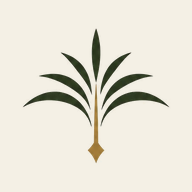
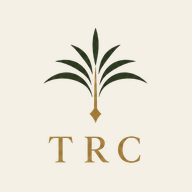
Application : icône TRC (palmier + TRC) et page « ثبّت التطبيق »
- Icônes refaites depuis le logo : palmier + TRC sur fond crème (iPhone, Android,
  forme ronde « maskable »)
- Page /installer : bouton d'installation en un clic sur Android/Chrome,
  étapes illustrées pour iPhone (Safari), bouton dans le pied de page
- Réglages iPhone (nom « TRC » sous l'icône, plein écran)
- 4 tests ajoutés (88 au total)

Changed region(s): [[0.125, 0.1562, 0.875, 0.875], [0.5938, 0.6875, 0.75, 0.875], [0.25, 0.6875, 0.375, 0.875]]

diff --git a/frontend/src/pages/public/Install.jsx b/frontend/src/pages/public/Install.jsx
@@ -1,0 +1,65 @@
+import { useEffect, useState } from 'react'
+import { useTranslation } from 'react-i18next'
+import { AngledLine } from '../../components/ui'
+import { canPromptInstall, isInstalled, onInstallChange, platform, promptInstall } from '../../lib/install'
+
+function Steps({ title, steps }) {
+  return (
+    <div className="panel">
+      <h2 style={{ fontSize: '1.2rem' }}>{title}</h2>
+      <ol className="install-steps">
+        {steps.map((step) => (
+          <li key={step}>{step}</li>
+        ))}
+      </ol>
+    </div>
+  )
+}
+
+export default function Install() {
+  const { t } = useTranslation()
+  const [, refresh] = useState(0)
+  const [result, setResult] = useState(null)
+  useEffect(() => onInstallChange(() => refresh((n) => n + 1)), [])
+  const device = platform()
+  const ios = t('install.ios', { returnObjects: true })
+  const android = t('install.android', { returnObjects: true })
+
+  const install = async () => setResult((await promptInstall()) ? 'accepted' : 'dismissed')
+
+  return (
+    <section className="container section">
+      <div className="auth-page" style={{ maxWidth: 560 }}>
+        <div style={{ textAlign: 'center' }}>
+          <img src="/icon-192.png" alt="" width="96" height="96" className="install-icon" />
+          <h1 style={{ fontSize: '1.6rem', marginTop: 12 }}>{t('install.title')}</h1>
+          <p className="muted">{t('install.intro')}</p>
+        </div>
+        <AngledLine />
+        {isInstalled() ? (
+          <div className="alert success">{t('install.already')}</div>
+        ) : (
+          <div className="stack">
+            {canPromptInstall() && (
+              <button type="button" className="btn btn-primary" onClick={install}>
+                {t('install.button')}
+              </button>
+            )}
+            {result === 'accepted' && <div className="alert success">{t('install.done')}</div>}
+            {device === 'ios' ? (
+              <Steps title={t('install.iosTitle')} steps={ios} />
+            ) : device === 'android' ? (
+              <Steps title={t('install.androidTitle')} steps={android} />
+            ) : (
+              <>
+                <Steps title={t('install.androidTitle')} steps={android} />
+                <Steps title={t('install.iosTitle')} steps={ios} />
+              </>
+            )}
+            <p className="small muted">{t('install.free')}</p>
+          </div>
+        )}
+      </div>
+    </section>
+  )
+}

diff --git a/frontend/src/test/install.test.jsx b/frontend/src/test/install.test.jsx
@@ -1,0 +1,47 @@
+import { act, screen } from '@testing-library/react'
+import userEvent from '@testing-library/user-event'
+import { describe, expect, it, vi } from 'vitest'
+import { canPromptInstall, isInstalled, platform } from '../lib/install'
+import Install from '../pages/public/Install'
+import { mockApi, renderAt } from './utils'
+
+describe('installer l’application (sans store)', () => {
+  it('reconnaît iPhone, Android et ordinateur', () => {
+    expect(platform('Mozilla/5.0 (iPhone; CPU iPhone OS 17_0 like Mac OS X)')).toBe('ios')
+    expect(platform('Mozilla/5.0 (Linux; Android 14; SM-A145F)')).toBe('android')
+    expect(platform('Mozilla/5.0 (X11; Linux x86_64)')).toBe('other')
+    expect(isInstalled()).toBe(false)
+  })
+
+  it('Android : le bouton ouvre la fenêtre d’installation du navigateur', async () => {
+    mockApi({})
+    const prompt = vi.fn()
+    const event = new Event('beforeinstallprompt')
+    event.prompt = prompt
+    event.userChoice = Promise.resolve({ outcome: 'accepted' })
+    const user = userEvent.setup()
+    renderAt(<Install />)
+    expect(screen.queryByRole('button', { name: 'ثبّت التطبيق الآن' })).toBeNull()
+    act(() => window.dispatchEvent(event))
+    expect(canPromptInstall()).toBe(true)
+    await user.click(screen.getByRole('button', { name: 'ثبّت التطبيق الآن' }))
+    expect(prompt).toHaveBeenCalled()
+    expect(await screen.findByText(/تم التثبيت/)).toBeInTheDocument()
+    expect(canPromptInstall()).toBe(false)
+  })
+
+  it('explique les étapes iPhone et Android', () => {
+    mockApi({})
+    renderAt(<Install />)
+    expect(screen.getByText('على آيفون (Safari)')).toBeInTheDocument()
+    expect(screen.getByText('على أندرويد (Chrome)')).toBeInTheDocument()
+    expect(screen.getAllByText(/الشاشة الرئيسية/).length).toBeGreaterThan(2)
+  })
+
+  it('déjà installée : message simple', () => {
+    mockApi({})
+    vi.stubGlobal('matchMedia', () => ({ matches: true }))
+    renderAt(<Install />)
+    expect(screen.getByText(/التطبيق مثبّت/)).toBeInTheDocument()
+  })
+})

diff --git a/frontend/src/lib/install.js b/frontend/src/lib/install.js
@@ -1,0 +1,58 @@
+// Installation de l'application sur l'écran d'accueil, sans App Store ni Play Store (PWA).
+// - Android / Chrome / Edge : le navigateur propose l'installation (événement « beforeinstallprompt ») :
+//   on le garde pour l'ouvrir quand l'utilisateur appuie sur notre bouton.
+// - iPhone / iPad (Safari) : pas d'installation automatique : on explique « Partager → Sur l'écran d'accueil ».
+
+let deferredPrompt = null
+const listeners = new Set()
+
+function notify() {
+  listeners.forEach((listener) => listener())
+}
+
+if (typeof window !== 'undefined') {
+  window.addEventListener('beforeinstallprompt', (event) => {
+    event.preventDefault()
+    deferredPrompt = event
+    notify()
+  })
+  window.addEventListener('appinstalled', () => {
+    deferredPrompt = null
+    notify()
+  })
+}
+
+export function onInstallChange(listener) {
+  listeners.add(listener)
+  return () => listeners.delete(listener)
+}
+
+export function canPromptInstall() {
+  return deferredPrompt !== null
+}
+
+/** Ouvre la fenêtre d'installation du navigateur ; renvoie true si l'utilisateur accepte. */
+export async function promptInstall() {
+  if (!deferredPrompt) return false
+  const event = deferredPrompt
+  deferredPrompt = null
+  notify()
+  await event.prompt()
+  const choice = await event.userChoice
+  return choice?.outcome === 'accepted'
+}
+
+/** L'application est-elle déjà ouverte depuis l'écran d'accueil ? */
+export function isInstalled() {
+  return Boolean(
+    window.matchMedia?.('(display-mode: standalone)')?.matches || window.navigator.standalone,
+  )
+}
+
+/** « ios », « android » ou « other » (ordinateur…), d'après le navigateur. */
+export function platform(userAgent = window.navigator.userAgent) {
+  if (/iphone|ipad|ipod/i.test(userAgent) || (/macintosh/i.test(userAgent) && 'ontouchend' in document))
+    return 'ios'
+  if (/android/i.test(userAgent)) return 'android'
+  return 'other'
+}

diff --git a/frontend/src/i18n/ar.js b/frontend/src/i18n/ar.js
@@ -57,6 +57,29 @@ export default {
     tooMany: 'محاولات كثيرة. انتظر دقيقة ثم حاول مرة أخرى.',
     waking: 'الخادم يستيقظ بعد فترة توقف… قد يستغرق ذلك دقيقة. لا تغلق الصفحة.',
   },
+  install: {
+    short: 'ثبّت التطبيق',
+    title: 'ثبّت تطبيق TRC على هاتفك',
+    intro: 'ضع إرث النخيل على الشاشة الرئيسية لهاتفك وافتحه بلمسة واحدة، مثل أي تطبيق.',
+    button: 'ثبّت التطبيق الآن',
+    done: 'تم التثبيت! ستجد أيقونة TRC على الشاشة الرئيسية.',
+    already: 'التطبيق مثبّت ومفتوح من الشاشة الرئيسية. ✓',
+    free: 'مجاني، دون المرور بمتجر التطبيقات أو Play Store، ويتحدّث تلقائيًا.',
+    androidTitle: 'على أندرويد (Chrome)',
+    android: [
+      'افتح wahaty.pages.dev في متصفح Chrome.',
+      'اضغط على النقاط الثلاث ⋮ في أعلى الشاشة.',
+      'اختر «تثبيت التطبيق» أو «إضافة إلى الشاشة الرئيسية».',
+      'اضغط «تثبيت»: تظهر أيقونة TRC بين تطبيقاتك.',
+    ],
+    iosTitle: 'على آيفون (Safari)',
+    ios: [
+      'افتح wahaty.pages.dev في متصفح Safari (وليس من داخل واتساب أو فيسبوك).',
+      'اضغط زر المشاركة ⬆ أسفل الشاشة.',
+      'انزل واختر «إضافة إلى الشاشة الرئيسية».',
+      'اضغط «إضافة» في الأعلى: تظهر أيقونة TRC على الشاشة.',
+    ],
+  },
   home: {
     tagline: 'منصة "إرث النخيل" - من إنتاج شركة تمور شنقيط',
     subtitle:

diff --git a/frontend/src/i18n/fr.js b/frontend/src/i18n/fr.js
@@ -57,6 +57,29 @@ export default {
     tooMany: 'Trop de tentatives. Attendez une minute puis réessayez.',
     waking: 'Le serveur se réveille après une pause… cela peut prendre une minute. Ne fermez pas la page.',
   },
+  install: {
+    short: 'Installer l’app',
+    title: 'Installez l’application TRC sur votre téléphone',
+    intro: 'Mettez Irth En-Nakhil sur l’écran d’accueil et ouvrez-le d’un geste, comme une application.',
+    button: 'Installer l’application',
+    done: 'Installée ! L’icône TRC est sur votre écran d’accueil.',
+    already: 'L’application est installée et ouverte depuis l’écran d’accueil. ✓',
+    free: 'Gratuit, sans App Store ni Play Store, et toujours à jour automatiquement.',
+    androidTitle: 'Sur Android (Chrome)',
+    android: [
+      'Ouvrez wahaty.pages.dev dans Chrome.',
+      'Appuyez sur les trois points ⋮ en haut de l’écran.',
+      'Choisissez « Installer l’application » ou « Ajouter à l’écran d’accueil ».',
+      'Appuyez sur « Installer » : l’icône TRC apparaît parmi vos applications.',
+    ],
+    iosTitle: 'Sur iPhone (Safari)',
+    ios: [
+      'Ouvrez wahaty.pages.dev dans Safari (pas depuis WhatsApp ou Facebook).',
+      'Appuyez sur le bouton Partager ⬆ en bas de l’écran.',
+      'Descendez et choisissez « Sur l’écran d’accueil ».',
+      'Appuyez sur « Ajouter » en haut : l’icône TRC apparaît sur l’écran.',
+    ],
+  },
   home: {
     tagline: 'La plateforme « Irth En-Nakhil » – une réalisation de Chinguitti Dates (تمور شنقيط)',
     subtitle:

diff --git a/frontend/src/App.jsx b/frontend/src/App.jsx
@@ -6,6 +6,7 @@ import Layout from './components/Layout'
 import { Loader } from './components/ui'
 import { Claim, Login, Register } from './pages/auth/AuthPages'
 import Home from './pages/public/Home'
+import Install from './pages/public/Install'
 import Market, { ListingDetail } from './pages/public/Market'
 import Oases, { OasisDetail } from './pages/public/Oases'
 import Varieties, { VarietyDetail } from './pages/public/Varieties'
@@ -66,6 +67,7 @@ export default function App() {
         <Route path="oasis/:slug" element={<OasisDetail />} />
         <Route path="marche" element={<Market />} />
         <Route path="marche/:id" element={<ListingDetail />} />
+        <Route path="installer" element={<Install />} />
         <Route path="connexion" element={<Login />} />
         <Route path="inscription" element={<Register />} />
         <Route path="reprise" element={<Claim />} />

diff --git a/frontend/vite.config.js b/frontend/vite.config.js
@@ -8,9 +8,10 @@ const BACKEND = 'http://127.0.0.1:8000'
 const pwa = VitePWA({
   registerType: 'autoUpdate',
   injectRegister: false, // enregistré dans main.jsx : rechargement automatique à chaque nouvelle version
-  includeAssets: ['favicon.png', 'apple-touch-icon.png', 'logo-mark.webp'],
+  includeAssets: ['favicon.png', 'apple-touch-icon.png', 'logo-mark.webp', 'icon-192.png'],
   manifest: {
     name: 'TRC إرث النخيل',
+    id: '/',
     short_name: 'TRC',
     description: 'تمور واحات آدرار – Les dattes des oasis de l’Adrar',
     lang: 'ar',

diff --git a/frontend/index.html b/frontend/index.html
@@ -11,6 +11,11 @@
     <meta name="theme-color" content="#189448" />
     <link rel="icon" type="image/png" href="/favicon.png" />
     <link rel="apple-touch-icon" href="/apple-touch-icon.png" />
+    <!-- iPhone : nom et apparence une fois ajouté à l'écran d'accueil -->
+    <meta name="apple-mobile-web-app-capable" content="yes" />
+    <meta name="mobile-web-app-capable" content="yes" />
+    <meta name="apple-mobile-web-app-title" content="TRC" />
+    <meta name="apple-mobile-web-app-status-bar-style" content="default" />
   </head>
   <body>
     <div id="root"></div>

diff --git a/frontend/src/components/Layout.jsx b/frontend/src/components/Layout.jsx
@@ -119,6 +119,10 @@ export function Footer() {
             <PhoneIcon />
             <span>{t('footer.call')}</span>
           </a>
+          <Link className="contact-pill" to="/installer">
+            <img src="/favicon.png" alt="" width="22" height="22" style={{ borderRadius: 6 }} />
+            <span>{t('install.short')}</span>
+          </Link>
         </div>
         <div className="muted small">
           © {new Date().getFullYear()} TRC — {t('footer.rights')}

diff --git a/frontend/src/styles/global.css b/frontend/src/styles/global.css
@@ -1194,3 +1194,19 @@ table.simple th {
   border-top-color: var(--white);
   animation: spin 0.8s linear infinite;
 }
+
+/* ---------- Installer l'application ---------- */
+
+.install-icon {
+  margin: 0 auto;
+  border-radius: 22px;
+  box-shadow: var(--shadow);
+}
+
+.install-steps {
+  margin: 0;
+  padding-inline-start: 1.4em;
+  display: grid;
+  gap: 10px;
+  font-size: 1.05rem;
+}

diff --git a/frontend/src/main.jsx b/frontend/src/main.jsx
@@ -7,6 +7,7 @@ import { registerSW } from 'virtual:pwa-register'
 import App from './App'
 import { AuthProvider } from './auth/AuthProvider'
 import './i18n'
+import './lib/install' // écoute tout de suite la proposition d'installation du navigateur
 import './styles/global.css'
 
 // Application installée : dès qu'une nouvelle version est en ligne, la page se recharge seule.
